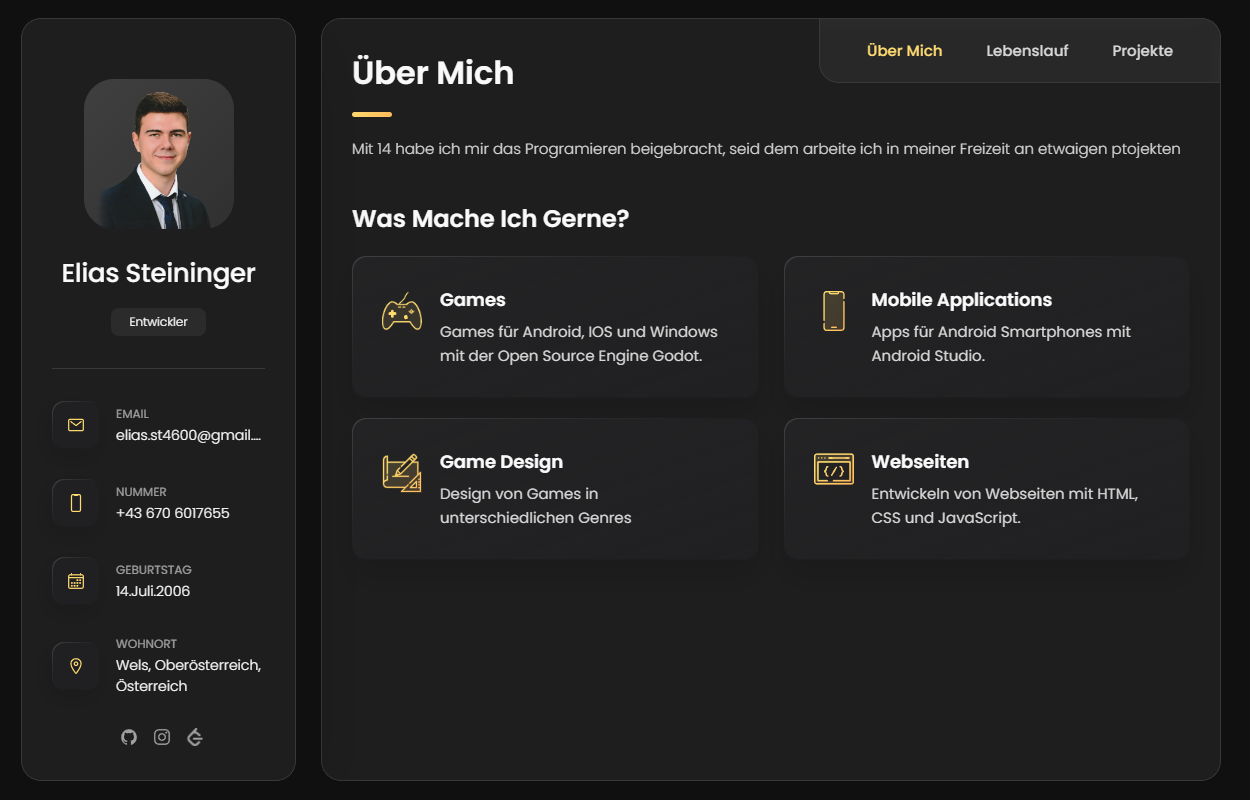
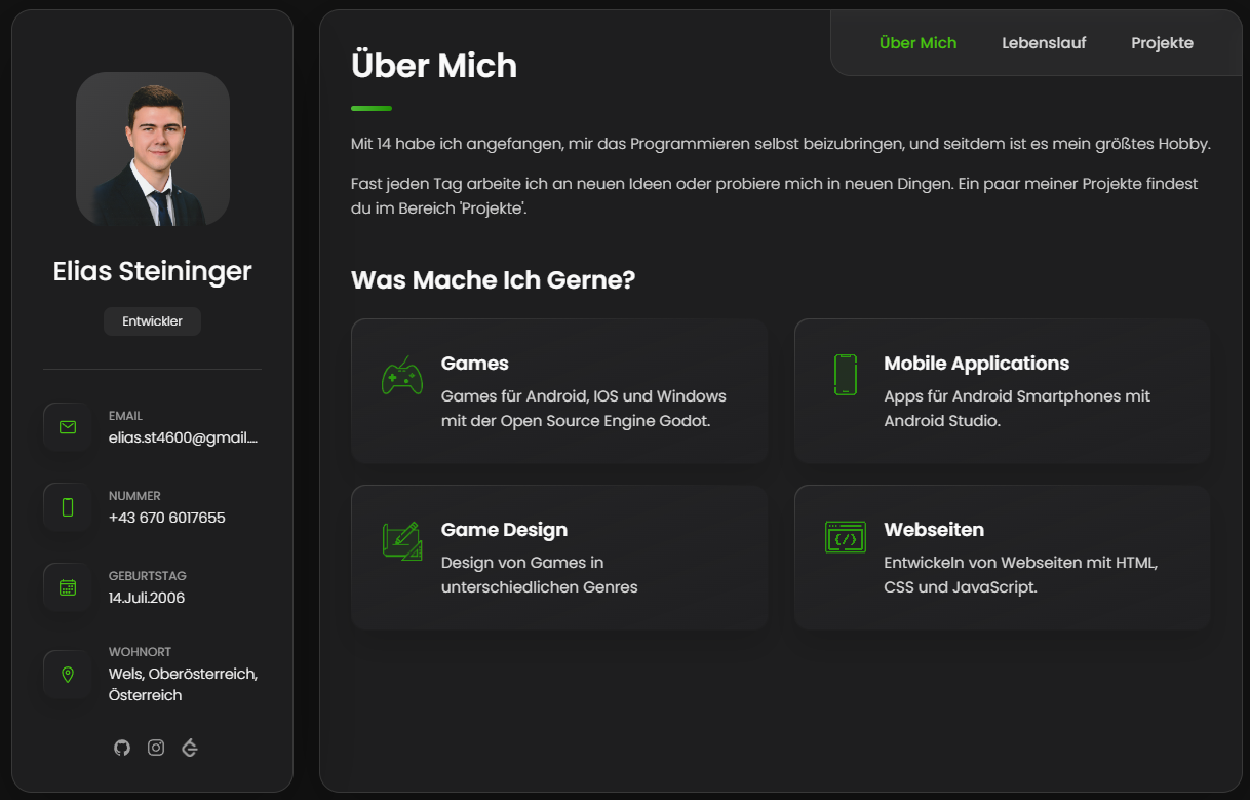
Theme Color is now green, project images
- The Theme Color is now green not yellow
- New pictures for the Projects
- changed .svg to .png
- added links to skills
- changed website icon

diff --git a/css/style.css b/css/style.css
@@ -30,26 +30,27 @@
     hsla(240, 1%, 18%, 0.251) 0%, 
     hsla(240, 2%, 11%, 0) 100%
   ), hsl(240, 2%, 13%);
-  --bg-gradient-yellow-1: linear-gradient(
-    to bottom right, 
-    hsl(45, 100%, 71%) 0%, 
-    hsla(36, 100%, 69%, 0) 50%
+  --bg-gradient-green-1: linear-gradient(
+     to bottom right,
+     hsl(119.08deg 92.38% 16.86%) 0%,
+     hsla(36, 100%, 69%, 0) 50%
   );
-  --bg-gradient-yellow-2: linear-gradient(
-    135deg, 
-    hsla(45, 100%, 71%, 0.251) 0%, 
-    hsla(35, 100%, 68%, 0) 59.86%
-  ), hsl(240, 2%, 13%);
+  --bg-gradient-green-2: linear-gradient(
+     135deg,
+     hsl(122.37deg 100% 71% / 25.1%) 0%,
+     hsl(119.6deg 100% 68% / 0%) 59.86%),
+     hsl(240, 2%, 13%
+  );
   --border-gradient-onyx: linear-gradient(
     to bottom right, 
     hsl(0, 0%, 25%) 0%, 
     hsla(0, 0%, 25%, 0) 50%
   );
-  --text-gradient-yellow: linear-gradient(
-    to right, 
-    hsl(45, 100%, 72%), 
-    hsl(35, 100%, 68%)
-  );
+  --text-gradient-green: linear-gradient(
+   to right,
+   hsl(109, 55%, 48%),
+   hsl(108, 93%, 30%)
+);
 
   /* solid */
 
@@ -60,8 +61,8 @@
   --smoky-black: hsl(0, 0%, 7%);
   --white-1: hsl(0, 0%, 100%);
   --white-2: hsl(0, 0%, 98%);
-  --orange-yellow-crayola: hsl(45, 100%, 72%);
-  --vegas-gold: hsl(45, 54%, 58%);
+  --dark-green: hsl(102, 84.17%, 42.22%);
+  --dark-black-green: hsl(122.84, 54.48%, 25.58%);
   --light-gray: hsl(0, 0%, 84%);
   --light-gray-70: hsla(0, 0%, 84%, 0.7);
   --bittersweet-shimmer: hsl(0, 43%, 51%);
@@ -92,7 +93,7 @@
   /**
    * shadow
    */
-  
+
   --shadow-1: -4px 8px 24px hsla(0, 0%, 0%, 0.25);
   --shadow-2: 0 16px 30px hsla(0, 0%, 0%, 0.25);
   --shadow-3: 0 16px 40px hsla(0, 0%, 0%, 0.25);
@@ -144,11 +145,11 @@ input, textarea {
 }
 
 ::selection {
-  background: var(--orange-yellow-crayola);
+  background: var(--dark-green);
   color: var(--smoky-black);
 }
 
-:focus { outline-color: var(--orange-yellow-crayola); }
+:focus { outline-color: var(--dark-green); }
 
 html { font-family: var(--ff-poppins); }
 
@@ -189,7 +190,7 @@ article {
   justify-content: center;
   align-items: center;
   font-size: 16px;
-  color: var(--orange-yellow-crayola);
+  color: var(--dark-green);
   box-shadow: var(--shadow-1);
   z-index: 1;
 }
@@ -248,7 +249,7 @@ article.active {
   left: 0;
   width: 30px;
   height: 3px;
-  background: var(--text-gradient-yellow);
+  background: var(--text-gradient-green);
   border-radius: 3px;
 }
 
@@ -263,7 +264,7 @@ article.active {
 }
 
 .has-scrollbar::-webkit-scrollbar-thumb {
-  background: var(--orange-yellow-crayola);
+  background: var(--dark-green);
   border-radius: 5px;
 }
 
@@ -357,7 +358,7 @@ main {
   right: -15px;
   border-radius: 0 15px;
   font-size: 13px;
-  color: var(--orange-yellow-crayola);
+  color: var(--dark-green);
   background: var(--border-gradient-onyx);
   padding: 10px;
   box-shadow: var(--shadow-2);
@@ -376,10 +377,10 @@ main {
 }
 
 .info_more-btn:hover,
-.info_more-btn:focus { background: var(--bg-gradient-yellow-1); }
+.info_more-btn:focus { background: var(--bg-gradient-green-1); }
 
 .info_more-btn:hover::before,
-.info_more-btn:focus::before { background: var(--bg-gradient-yellow-2); }
+.info_more-btn:focus::before { background: var(--bg-gradient-green-2); }
 
 .info_more-btn span { display: none; }
 
@@ -482,7 +483,7 @@ main {
 .navbar-link:hover,
 .navbar-link:focus { color: var(--light-gray-70); }
 
-.navbar-link.active { color: var(--orange-yellow-crayola); }
+.navbar-link.active { color: var(--dark-green); }
 
 
 
@@ -506,7 +507,7 @@ main {
 
 
 /**
- * #service 
+ * #service
  */
 
 .service { margin-bottom: 35px; }
@@ -673,7 +674,7 @@ main {
 
 
 /**
- * education and experience 
+ * education and experience
  */
 
 .timeline { margin-bottom: 30px; }
@@ -701,7 +702,7 @@ main {
 }
 
 .timeline-list span {
-  color: var(--vegas-gold);
+  color: var(--dark-black-green);
   font-weight: var(--fw-400);
   line-height: 1.6;
 }
@@ -723,7 +724,7 @@ main {
   left: -33px;
   height: 6px;
   width: 6px;
-  background: var(--text-gradient-yellow);
+  background: var(--text-gradient-green);
   border-radius: 50%;
   box-shadow: 0 0 0 4px var(--jet);
 }
@@ -736,7 +737,7 @@ main {
 
 
 /**
- * skills 
+ * skills
  */
 
 .skills-title { margin-bottom: 20px; }
@@ -767,7 +768,7 @@ main {
 }
 
 .skill-progress-fill {
-  background: var(--text-gradient-yellow);
+  background: var(--text-gradient-green);
   height: 100%;
   border-radius: inherit;
 }
@@ -885,7 +886,7 @@ main {
   --scale: 0.8;
 
   background: var(--jet);
-  color: var(--orange-yellow-crayola);
+  color: var(--dark-green);
   position: absolute;
   top: 50%;
   left: 50%;
@@ -981,7 +982,7 @@ main {
 
 .form-input::placeholder { font-weight: var(--fw-500); }
 
-.form-input:focus { border-color: var(--orange-yellow-crayola); }
+.form-input:focus { border-color: var(--dark-green); }
 
 textarea.form-input {
   min-height: 100px;
@@ -999,7 +1000,7 @@ textarea.form-input::-webkit-resizer { display: none; }
   position: relative;
   width: 100%;
   background: var(--border-gradient-onyx);
-  color: var(--orange-yellow-crayola);
+  color: var(--dark-green);
   display: flex;
   justify-content: center;
   align-items: center;
@@ -1025,9 +1026,9 @@ textarea.form-input::-webkit-resizer { display: none; }
 
 .form-btn ion-icon { font-size: 16px; }
 
-.form-btn:hover { background: var(--bg-gradient-yellow-1); }
+.form-btn:hover { background: var(--bg-gradient-green-1); }
 
-.form-btn:hover::before { background: var(--bg-gradient-yellow-2); }
+.form-btn:hover::before { background: var(--bg-gradient-green-2); }
 
 .form-btn:disabled {
   opacity: 0.7;
@@ -1061,7 +1062,7 @@ textarea.form-input::-webkit-resizer { display: none; }
 
 
   /**
-   * #PORTFOLIO, BLOG 
+   * #PORTFOLIO, BLOG
    */
 
   .project-img,
@@ -1437,7 +1438,7 @@ textarea.form-input::-webkit-resizer { display: none; }
 
   .filter-item button:hover { color: var(--light-gray-70); }
 
-  .filter-item button.active { color: var(--orange-yellow-crayola); }
+  .filter-item button.active { color: var(--dark-green); }
 
   /* portfolio and blog grid */
 

diff --git a/index.html b/index.html
@@ -10,7 +10,7 @@
   <!--
     - favicon
   -->
-  <link rel="shortcut icon" href="images/logo.ico" type="image/x-icon">
+  <link rel="shortcut icon" href="images/icon.png" type="image/x-icon">
 
   <!--
     - custom css link
@@ -197,7 +197,11 @@
 
         <section class="about-text">
           <p>
-            Mit 14 habe ich mir das Programieren beigebracht, seid dem arbeite ich in meiner Freizeit an etwaigen ptojekten
+            Mit 14 habe ich angefangen, mir das Programmieren selbst beizubringen, und seitdem ist es mein größtes Hobby.
+          </p>
+
+          <p>
+            Fast jeden Tag arbeite ich an neuen Ideen oder probiere mich in neuen Dingen. Ein paar meiner Projekte findest du im Bereich 'Projekte'.
           </p>
         </section>
 
@@ -231,7 +235,7 @@
             <li class="service-item">
 
               <div class="service-icon-box">
-                <img src="images/icon-app.svg" alt="mobile app icon" width="40">
+                <img src="images/icon-app.png" alt="mobile app icon" width="40">
               </div>
 
               <div class="service-content-box">
@@ -247,7 +251,7 @@
             <li class="service-item">
 
               <div class="service-icon-box">
-                <img src="images/icon-design.svg" alt="game design icon" width="40">
+                <img src="images/icon-design.png" alt="game design icon" width="40">
               </div>
 
               <div class="service-content-box">
@@ -263,7 +267,7 @@
             <li class="service-item">
 
               <div class="service-icon-box">
-                <img src="images/icon-dev.svg" alt="dev icon" width="40">
+                <img src="images/icon-dev.png" alt="dev icon" width="40">
               </div>
 
               <div class="service-content-box">
@@ -443,6 +447,10 @@
               <div class="title-wrapper">
                 <h5 class="h5">Python</h5>
                 <data value="60">60%</data>
+                <span style="display:block; width: 1px;"></span>
+                <a href="https://www.python.org/">
+                  <img alt="Open Python Website" src="images/OpenLink.png" height="15" width="15" />
+                </a>
               </div>
 
               <div class="skill-progress-bg">
@@ -482,6 +490,10 @@
               <div class="title-wrapper">
                 <h5 class="h5">GdScript</h5>
                 <data value="80">80%</data>
+                <span style="display:block; width: 1px;"></span>
+                <a href="https://docs.godotengine.org/en/stable/tutorials/scripting/gdscript/gdscript_basics.html">
+                  <img alt="Open GdScript Documentation" src="images/OpenLink.png" height="15" width="15" />
+                </a>
               </div>
 
               <div class="skill-progress-bg">
@@ -519,8 +531,25 @@
             <li class="skills-item">
 
               <div class="title-wrapper">
+                <h5 class="h5">CSS</h5>
+                <data value="10">10%</data>
+              </div>
+
+              <div class="skill-progress-bg">
+                <div class="skill-progress-fill" style="width: 10%;"></div>
+              </div>
+
+            </li>
+
+            <li class="skills-item">
+
+              <div class="title-wrapper">
                 <h5 class="h5">Godot</h5>
                 <data value="80">80%</data>
+                <span style="display:block; width: 1px;"></span>
+                <a href="https://godotengine.org/">
+                  <img alt="Open Godot Website" src="images/OpenLink.png" height="15" width="15" />
+                </a>
               </div>
 
               <div class="skill-progress-bg">
@@ -534,19 +563,10 @@
               <div class="title-wrapper">
                 <h5 class="h5">Unity</h5>
                 <data value="60">60%</data>
-              </div>
-
-              <div class="skill-progress-bg">
-                <div class="skill-progress-fill" style="width: 60%;"></div>
-              </div>
-
-            </li>
-
-            <li class="skills-item">
-
-              <div class="title-wrapper">
-                <h5 class="h5">SolidWorks</h5>
-                <data value="60">60%</data>
+                <span style="display:block; width: 1px;"></span>
+                <a href="https://unity.com/">
+                  <img alt="Open Unity Website" src="images/OpenLink.png" height="15" width="15" />
+                </a>
               </div>
 
               <div class="skill-progress-bg">
@@ -686,6 +706,7 @@
               </a>
             </li>
 
+            <!--
             <li class="project-item  active" data-filter-item data-category="spiele">
               <a href="https://github.com/Stoniye/Online-Bank-Game">
 
@@ -694,7 +715,7 @@
                     <ion-icon name="eye-outline"></ion-icon>
                   </div>
 
-                  <img src="images/project-1.jpg" alt="finance" loading="lazy">
+                  <img src="images/project-spacefighter.jpg" alt="finance" loading="lazy">
                 </figure>
 
                 <h3 class="project-title">Online Bank Game</h3>
@@ -703,6 +724,7 @@
 
               </a>
             </li>
+            -->
 
             <li class="project-item  active" data-filter-item data-category="spiele">
               <a href="https://github.com/Stoniye/Voxel-Engine">
@@ -712,7 +734,7 @@
                     <ion-icon name="eye-outline"></ion-icon>
                   </div>
 
-                  <img src="images/project-1.jpg" alt="finance" loading="lazy">
+                  <img src="images/project-voxelengine.png" alt="finance" loading="lazy">
                 </figure>
 
                 <h3 class="project-title">Voxel Engine</h3>
